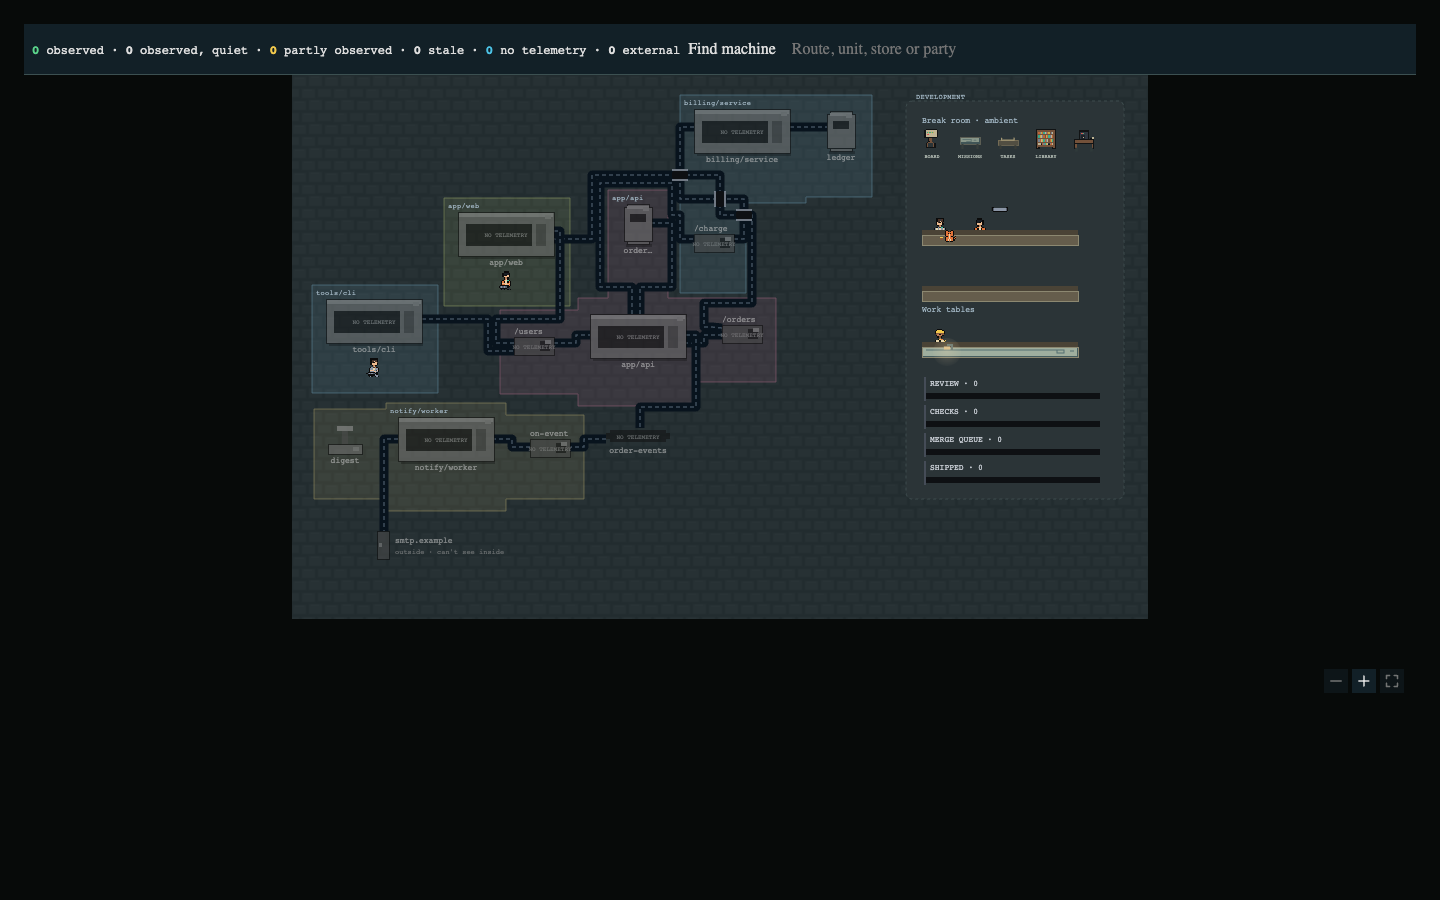
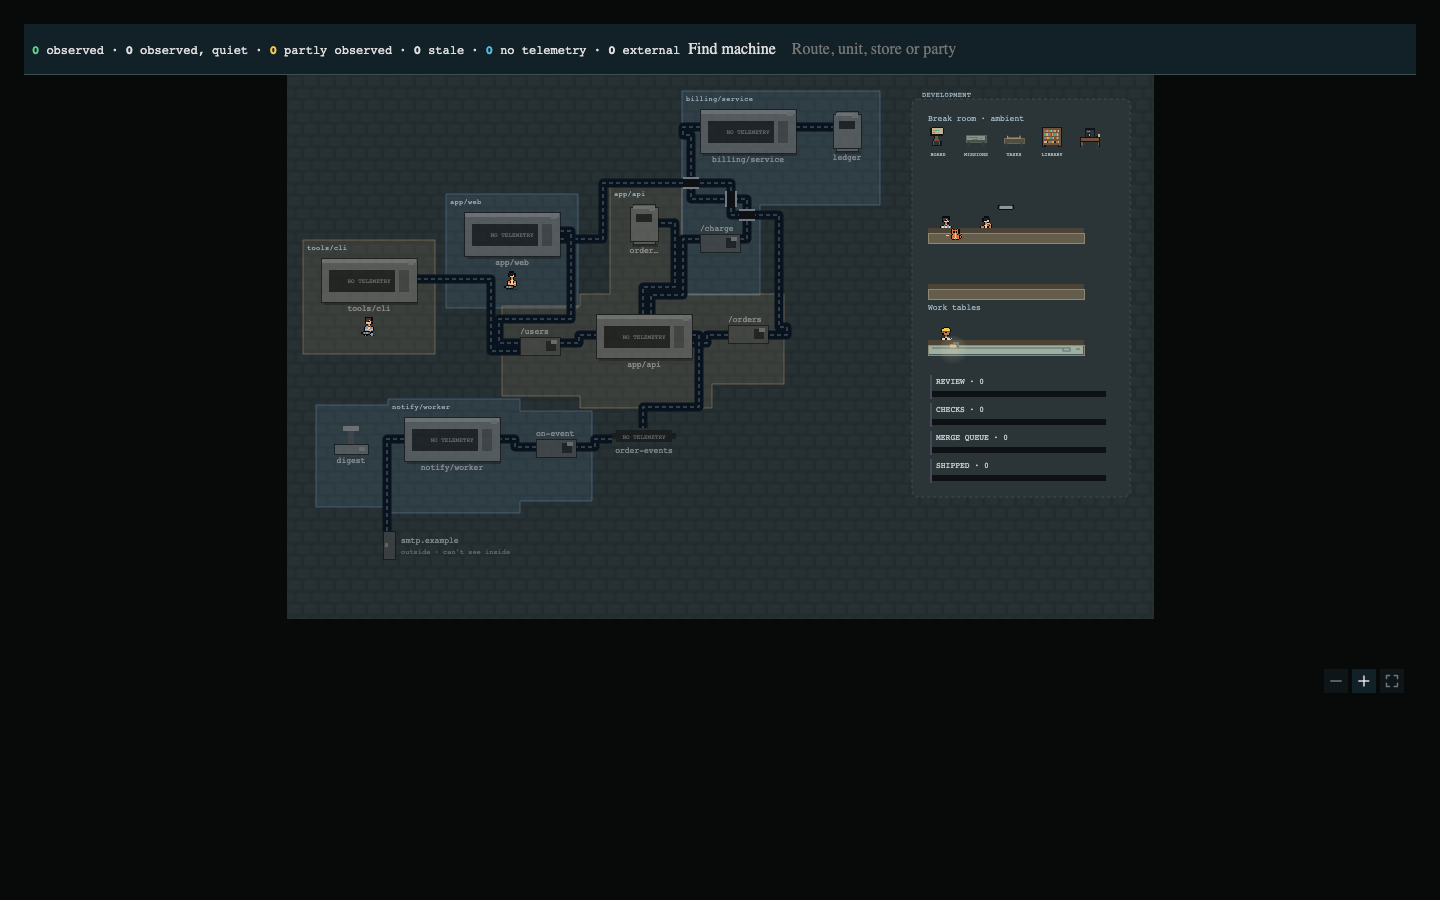
README caption and images match the floor

diff --git a/README.md b/README.md
@@ -8,11 +8,11 @@ Keep parallel work in one place instead of juggling separate agent sessions.
 
 <picture>
   <source media="(max-width: 600px)" srcset="docs/assets/factory-floor-demo-mobile.png">
-  <img src="docs/assets/factory-floor-demo.png" alt="Dark Factory floor: machines from three repositories on one shared floor, joined by belts, with faint unit areas, an outside gate, the commons and sample workers">
+  <img src="docs/assets/factory-floor-demo.png" alt="Dark Factory floor: machines from three repositories on one shared floor, joined by square belts, over faint unit areas, with an outside gate, the development block and sample workers">
 </picture>
 
-*Actual console with labelled demo data: sample workers, codebase rooms, and a
-synthetic Needs You decision. No daemon is connected.*
+*The factory floor drawn from a demo graph: three repositories' units on one
+shared floor, belts between them and sample workers. No daemon is connected.*
 
 [Get started](#quick-start) · [Website](https://www.darkfactory.build) ·
 [Console (requires pairing)](https://app.darkfactory.build) ·
